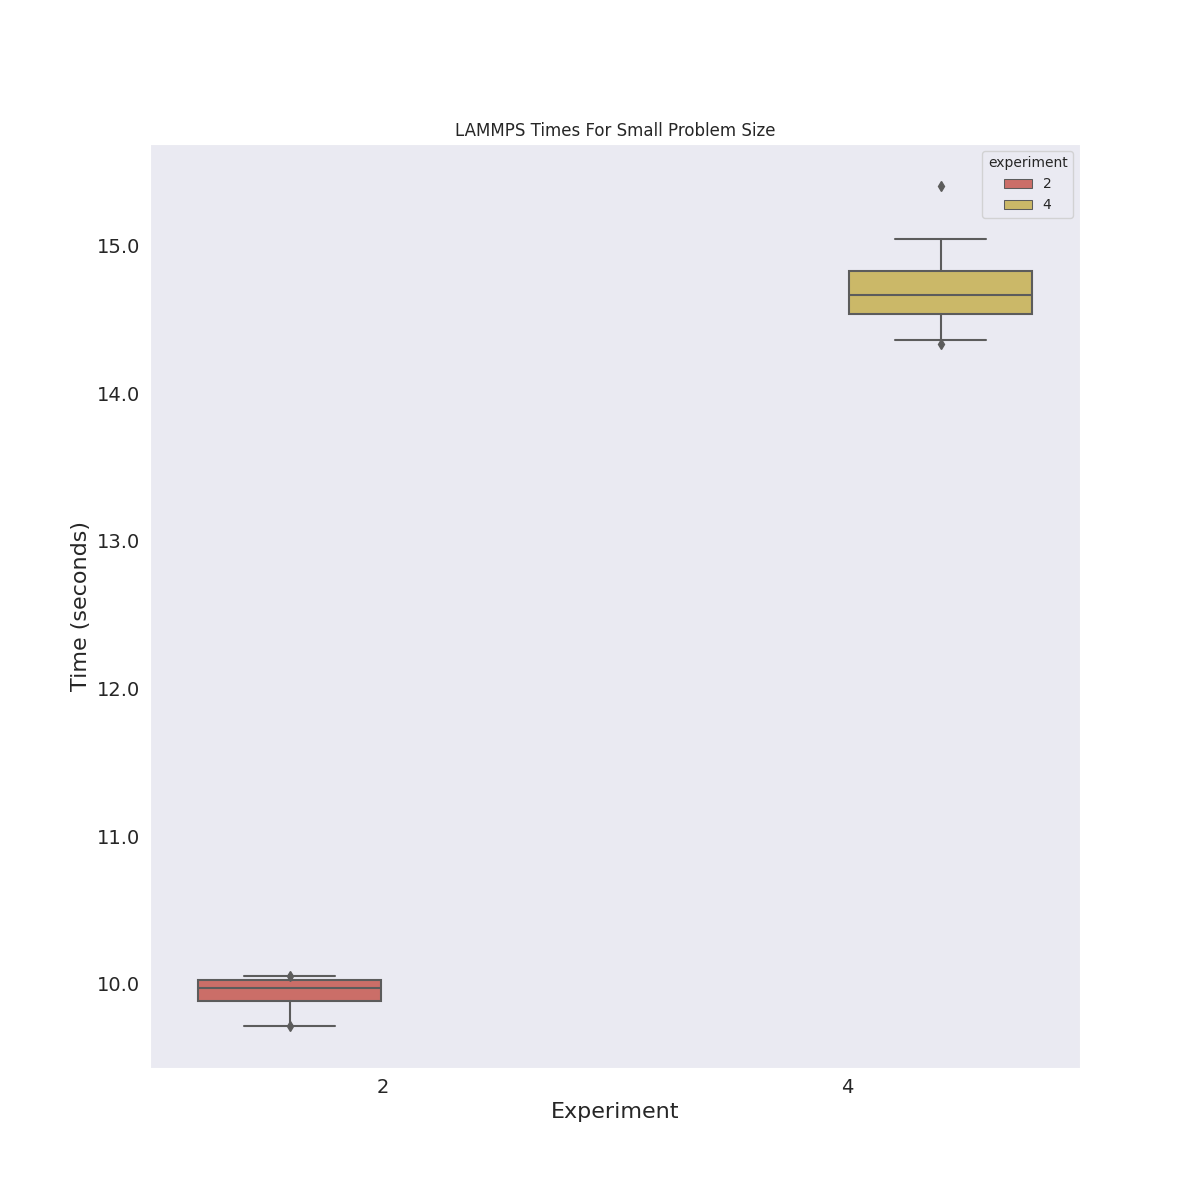
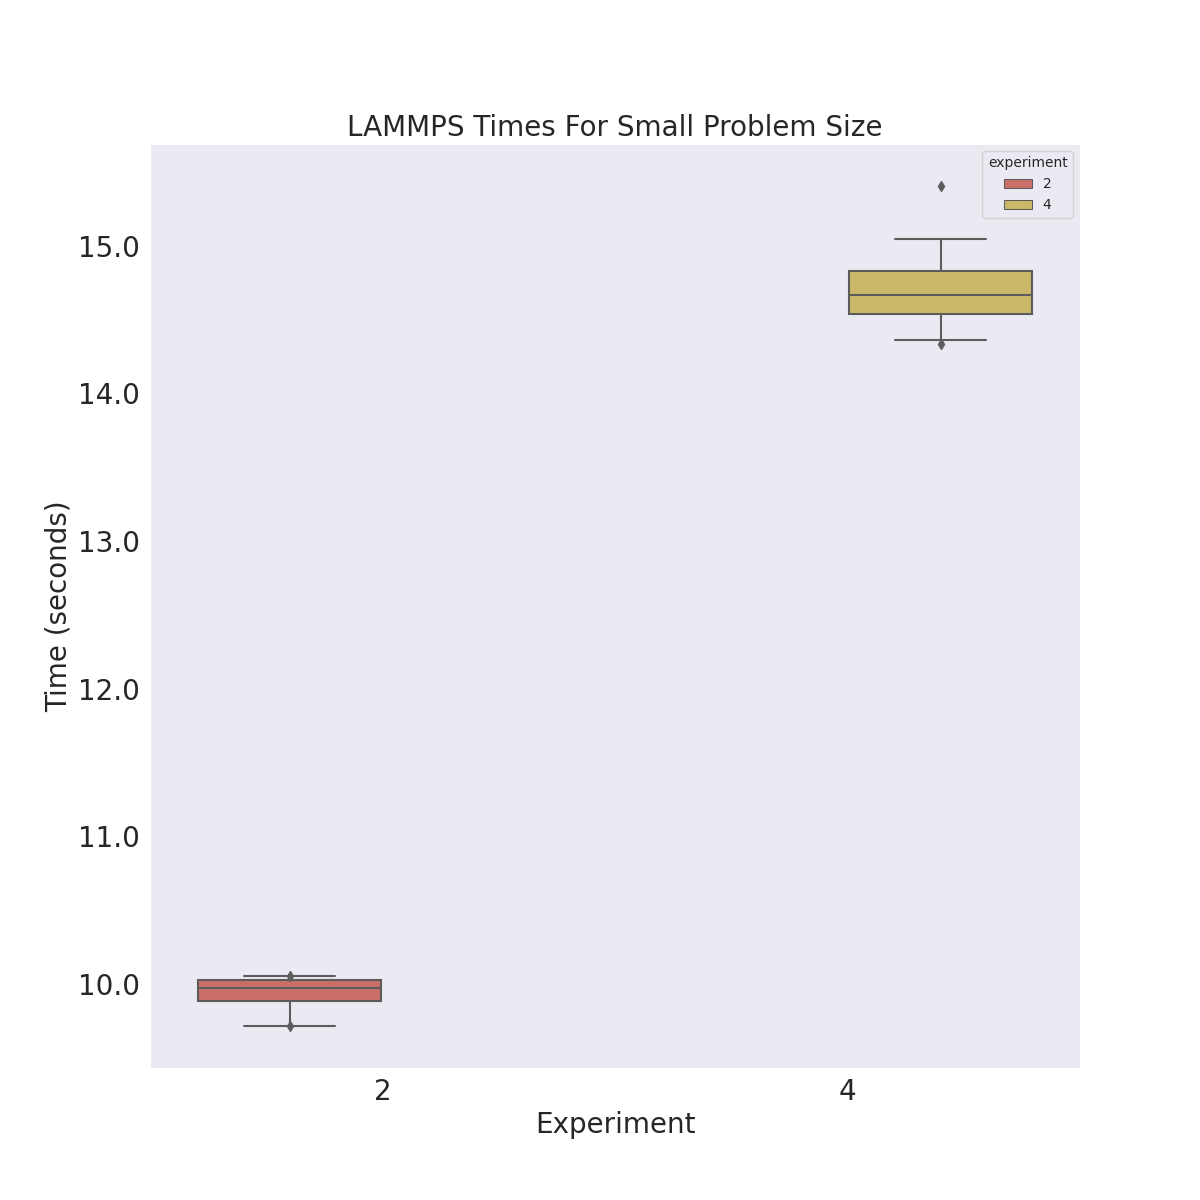
preparing to run experiments to time pod creation for job vs standalone

diff --git a/google/indexed-job-timing/run0/pod-events.py b/google/indexed-job-timing/run0/pod-events.py
@@ -1,0 +1,297 @@
+#!/usr/bin/env python3
+
+# Launch jobs and watch for pods events. We only care about the ids and when they are created
+# and then we can compare between cases. Since we have a small testing cluster here (kind)
+# we will only do small tests.
+import argparse
+import os
+import re
+import time
+import json
+import sys
+from datetime import datetime, timezone
+from functools import partial, update_wrapper
+
+import yaml
+from kubernetes import client as k8s
+from kubernetes import config, watch
+
+# Save data here
+here = os.path.dirname(os.path.abspath(__file__))
+
+# Create data output directory
+data = os.path.join(here, "data")
+
+# loading kubernetes config file and initializing client
+# config.load_kube_config(config_file=args.kubeconfig)
+config.load_kube_config()
+k8s_client = k8s.CoreV1Api()
+
+
+class timed:
+    """
+    Time the runtime of a function, add to times
+    """
+
+    def __init__(self, func):
+        update_wrapper(self, func)
+        self.func = func
+
+    def __get__(self, obj, objtype):
+        return partial(self.__call__, obj)
+
+    def __call__(self, cls, *args, **kwargs):
+        name = self.func.__name__
+        start = time.time()
+        res = self.func(cls, *args, **kwargs)
+        end = time.time()
+        cls.times[name] = round(end - start, 3)
+        return res
+
+
+def recursive_find(base, pattern=None):
+    """
+    Find filenames that match a particular pattern, and yield them.
+    """
+    # We can identify modules by finding module.lua
+    for root, folders, files in os.walk(base):
+        for file in files:
+            fullpath = os.path.abspath(os.path.join(root, file))
+
+            if pattern and not re.search(pattern, fullpath):
+                continue
+            yield fullpath
+
+
+def write_json(obj, path):
+    """
+    write json to file
+    """
+    with open(path, "w") as fd:
+        fd.write(json.dumps(obj, indent=4))
+
+
+def get_parser():
+    parser = argparse.ArgumentParser(
+        description="Pod Event Watcher",
+        formatter_class=argparse.RawTextHelpFormatter,
+    )
+    parser.add_argument(
+        "--outdir", help="Path for the experimental results", default=data
+    )
+    parser.add_argument(
+        "--size", help="Number of pods for indexed job or other", type=int
+    )
+    parser.add_argument(
+        "--namespace",
+        help="Kubernetes namespace",
+        default="default",
+    )
+    parser.add_argument("input", help="Input directory for the experiment")
+    return parser
+
+
+def datetime_utcnow_str():
+    return datetime.now(tz=timezone.utc).strftime("%Y-%m-%dT%H:%M:%SZ")
+
+
+def str_to_datetime(datetime_str_obj):
+    return datetime.strptime(datetime_str_obj, "%Y-%m-%dT%H:%M:%SZ").replace(
+        tzinfo=timezone.utc
+    )
+
+
+def read_file(filename):
+    with open(filename, "r") as file:
+        content = file.read()
+    return content
+
+
+def read_yaml(filename):
+    """
+    Read yaml into dict (not used)
+    """
+    with open(filename, "r") as file:
+        configuration = yaml.safe_load(file)
+    return configuration
+
+
+class Experiment:
+    def __init__(self, yaml_file, size):
+        self.yaml_file = os.path.abspath(yaml_file)
+        # Only read the first to get namespace, etc.
+        self.raw = read_file(self.yaml_file)
+        self.spec = yaml.safe_load(self.raw.split("---", 1)[0])
+        self.times = {}
+        self.events = {}
+        self.size = size
+
+    def __str__(self):
+        return os.path.basename(self.yaml_file).split(".", 1)[0]
+
+    def __repr__(self):
+        return str(self) + ".Experiment"
+
+    def create(self):
+        # Don't wait for finish so we see in events
+        os.system(f"kubectl apply -f {self.yaml_file} &")
+
+    def delete(self):
+        # Don't wait for finish so we see in events
+        os.system(f"kubectl delete -f {self.yaml_file} &")
+
+    @property
+    def group(self):
+        return self.spec["apiVersion"].split("/", 2)[0]
+
+    @property
+    def version(self):
+        return self.spec["apiVersion"].split("/", 2)[1]
+
+    @property
+    def kind(self):
+        return self.spec["kind"].lower()
+
+    @property
+    def plural(self):
+        return self.kind + "s"
+
+    @property
+    def namespace(self):
+        return self.spec["metadata"].get("namespace") or "default"
+
+    @property
+    def name(self):
+        return self.spec["metadata"]["name"]
+
+    def save(self, outfile):
+        """
+        Save data to file
+        """
+        print(f"Saving result for {self} to {outfile}")
+        result = {"events": self.events, "times": self.times}
+        write_json(result, outfile)
+
+    @timed
+    def watch_create(self):
+        """
+        Watch creation events
+        """
+        events = {}
+        pods_done = set()
+        watcher = watch.Watch()
+        for event in watcher.stream(
+            func=k8s_client.list_namespaced_pod, namespace=self.namespace
+        ):
+            pod_name = event["raw_object"]["metadata"]["name"]
+            if pod_name not in events:
+                events[pod_name] = []
+
+            # we do not need object and does not serialize
+            del event["object"]
+
+            event_type = event["type"]
+            print(f"Create event for pod {pod_name} 🫛  {event_type}")
+            events[pod_name].append(
+                {"event": event, "timestamp": datetime_utcnow_str()}
+            )
+            if is_creation_done(event):
+                pods_done.add(pod_name)
+
+            if len(pods_done) == self.size:
+                print(f"Create events for {pod_name} are done")
+                break
+
+        self.events["create"] = events
+
+    @timed
+    def watch_delete(self):
+        """
+        Watch deletion events
+        """
+        events = {}
+        watcher = watch.Watch()
+        pods_deleted = set()
+
+        # This should break when pods are deleted (no events)
+        for event in watcher.stream(
+            func=k8s_client.list_namespaced_pod, namespace=self.namespace
+        ):
+            # we do not need object and does not serialize
+            del event["object"]
+
+            pod_name = event["raw_object"]["metadata"]["name"]
+            if pod_name not in events:
+                events[pod_name] = []
+
+            event_type = event["type"]
+            print(f"Delete event for pod {pod_name} 🫛  {event_type}")
+            events[pod_name].append(
+                {"event": event, "timestamp": datetime_utcnow_str()}
+            )
+            if event_type == "DELETED":
+                pods_deleted.add(pod_name)
+            if len(pods_deleted) == self.size:
+                break
+
+        self.events["delete"] = events
+
+
+def is_creation_done(event):
+    """
+    Determine if creation is done based on all statuses being true
+    and the pod is Running
+    """
+    phase = event["raw_object"]["status"]["phase"].lower()
+    return phase == "running" and all(
+        [x["status"] == "True" for x in event["raw_object"]["status"]["conditions"]]
+    )
+
+
+def run_experiment(experiment_yaml, outfile, size):
+    """
+    Run experiments to watch a pod. We assume the default namespace
+    """
+    # Time creation, if there are trivial differences (probably not)
+    test = Experiment(experiment_yaml, size)
+    test.create()
+
+    # Create and watch until all are running and statuses all True
+    test.watch_create()
+    print(f"All pods for {test} are done creation.")
+    test.delete()
+    test.watch_delete()
+    print(f"All pods for {test} are deleted")
+    test.save(outfile)
+
+
+def main():
+    parser = get_parser()
+
+    # If an error occurs while parsing the arguments, the interpreter will exit with value 2
+    args, _ = parser.parse_known_args()
+
+    if not args.size:
+        sys.exit("Please indicate the number of pods with --size")
+    if not os.path.exists(args.input):
+        sys.exit(f"Input directory {args.input} does not exist.")
+    if not os.listdir(args.input):
+        sys.exit(f"Input directory {args.input} has no input files")
+
+    # Run each experiment file separately
+    for experiment_yaml in recursive_find(args.input, "[.](yml|yaml)$"):
+        experiment_name = os.path.basename(experiment_yaml).split(".", 1)[0]
+        outdir = os.path.join(args.outdir, experiment_name)
+        if not os.path.exists(outdir):
+            print(f"📁 Creating output directory {outdir}")
+            os.makedirs(outdir)
+
+        # Output file for events
+        outfile = os.path.join(outdir, "events.json")
+
+        # Run the experiment!
+        run_experiment(experiment_yaml, outfile, args.size)
+
+
+if __name__ == "__main__":
+    main()

diff --git a/google/service-timing/run13/c2d-standard-112-64/plot-results.py b/google/service-timing/run13/c2d-standard-112-64/plot-results.py
@@ -163,11 +163,11 @@ def make_plot(
     ax = plotfunc(
         x=xdimension, y=ydimension, hue=hue, data=df, whis=[5, 95], palette=palette
     )
-    plt.title(title)
-    ax.set_xlabel(xlabel, fontsize=16)
-    ax.set_ylabel(ylabel, fontsize=16)
-    ax.set_xticklabels(ax.get_xmajorticklabels(), fontsize=14)
-    ax.set_yticklabels(ax.get_yticks(), fontsize=14)
+    plt.title(title, fontsize=20)
+    ax.set_xlabel(xlabel, fontsize=20)
+    ax.set_ylabel(ylabel, fontsize=20)
+    ax.set_xticklabels(ax.get_xmajorticklabels(), fontsize=20)
+    ax.set_yticklabels(ax.get_yticks(), fontsize=20)
     plt.savefig(os.path.join(outdir, f"{tag}_{plotname}.{ext}"))
     plt.clf()
 

diff --git a/google/indexed-job-timing/run0/README.md b/google/indexed-job-timing/run0/README.md
@@ -1,0 +1,18 @@
+# Indexed Job Times
+
+We are interested to understand how creating batches of pods varies from creating a single indexed job.
+I'm going to do some basic tests (first locally) to test that.
+
+## Setup
+
+Create a kind cluster
+
+```bash
+kind create cluster
+```
+
+And then run a particular experiment:
+
+```bash
+python pod-events.py experiments/size-4 --size 4
+```

diff --git a/google/indexed-job-timing/README.md b/google/indexed-job-timing/README.md
@@ -1,0 +1,6 @@
+# Indexed Job Timing
+
+I'm curious to see how it compares to create / delete an indexed job vs.
+regular pods.
+
+- [run0](run0): Local testing / setup using kind.
